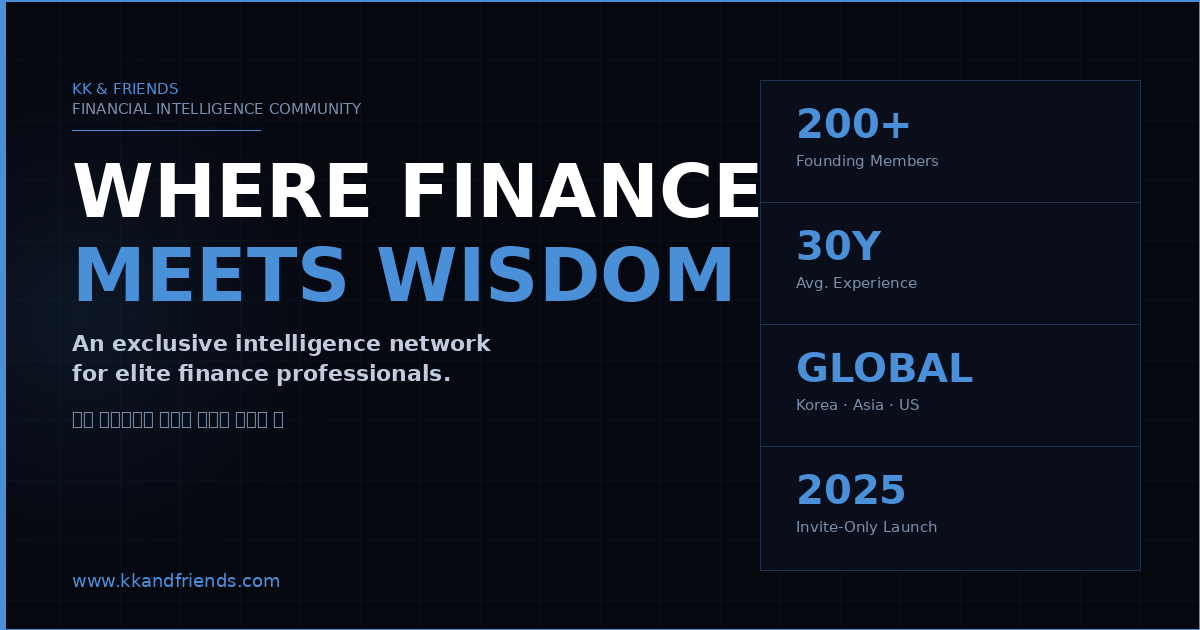
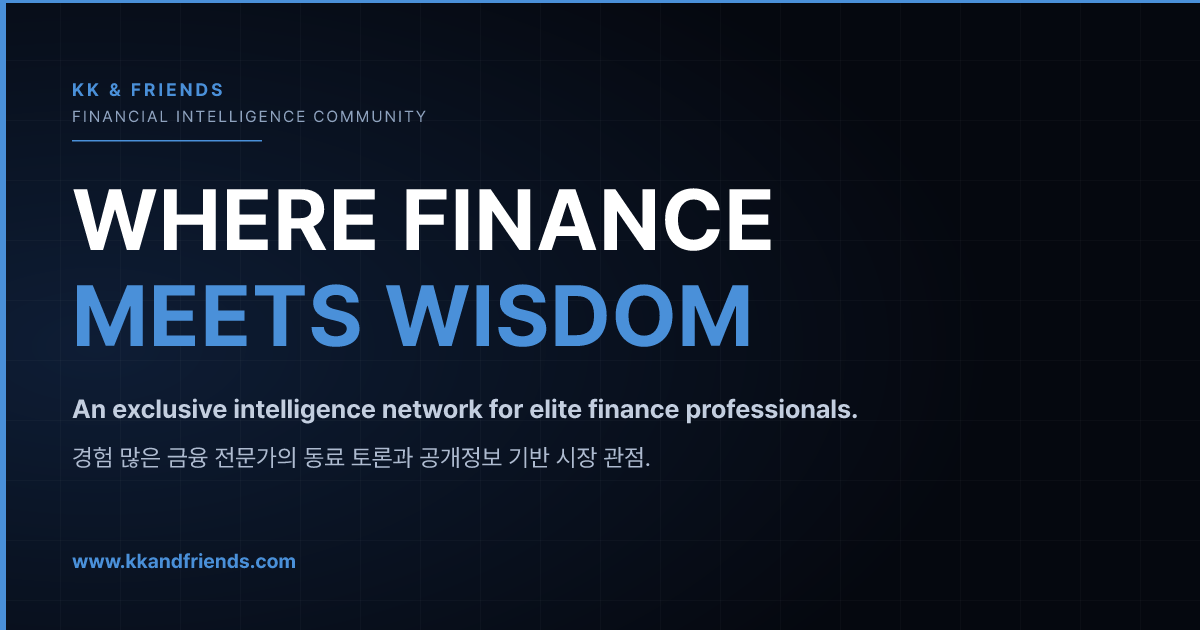
Rebuild og-image.png with a Korean font and without the stat column (#54)
The old card had no source, rendered its Korean line as boxes, and showed a
'200+ Founding Members' column that no longer matched the community. KK chose
the homepage line and no numbers. scripts/build-og-image.mjs now builds it
with the bundled Pretendard, same as the Instagram cards.

Claude-Session: https://claude.ai/code/session_01ThamMpdkawZwLnigU2nKGz

diff --git a/CLAUDE.md b/CLAUDE.md
@@ -52,7 +52,10 @@
   - 이미지: 글마다 1080×1350 **JPEG** 제목 카드 `/card/<original|posts>/<slug>.jpg` (`lib/ig-card.js`, resvg + jpeg-js, CDN 하루 캐시).
     Instagram API는 JPEG만 받는다. 한글 글꼴은 `fonts/Pretendard-*.otf`(OFL)를 `vercel.json` `includeFiles`로 함수에 싣는다 — 시스템 글꼴 없음.
   - 캡션: 제목 / 요약 / (디지털 자산이면 공개 문구) / "전문은 프로필 링크 kkandfriends.com 에서" / 해시태그. 줄바꿈 유지(`keepLines`). 캡션 링크는 눌리지 않는다.
-  - 알려진 문제: `og-image.png`의 한글 한 줄이 네모(□)로 깨져 있다(만들 때 한글 글꼴 없음). LinkedIn 카드에도 그대로 보인다.
+  - **2026-10-10 Zap 시험 게시 성공(KK).** 칸: Media=Enclosure Url, Caption=Description, 계정 KK&FRIENDS. 프로필 웹사이트 칸에 kkandfriends.com 필요.
+- **og-image.png (2026-10-10 다시 만듦, KK 지시):** 예전 파일은 원본이 없고 한글 줄이 네모(□)로 깨졌으며 "200+ Founding Members" 등 사실과 다른 숫자 칸이 있었다.
+  숫자 칸을 빼고 한글 줄을 "경험 많은 금융 전문가의 동료 토론과 공개정보 기반 시장 관점."으로 넣었다. 다시 만들 땐 `node scripts/build-og-image.mjs`.
+  카카오톡·LinkedIn은 미리보기를 캐시하므로 예전에 공유된 링크는 한동안 옛 이미지로 보일 수 있다.
 
 ## 검색엔진 등록 (2026-09-26)
 
